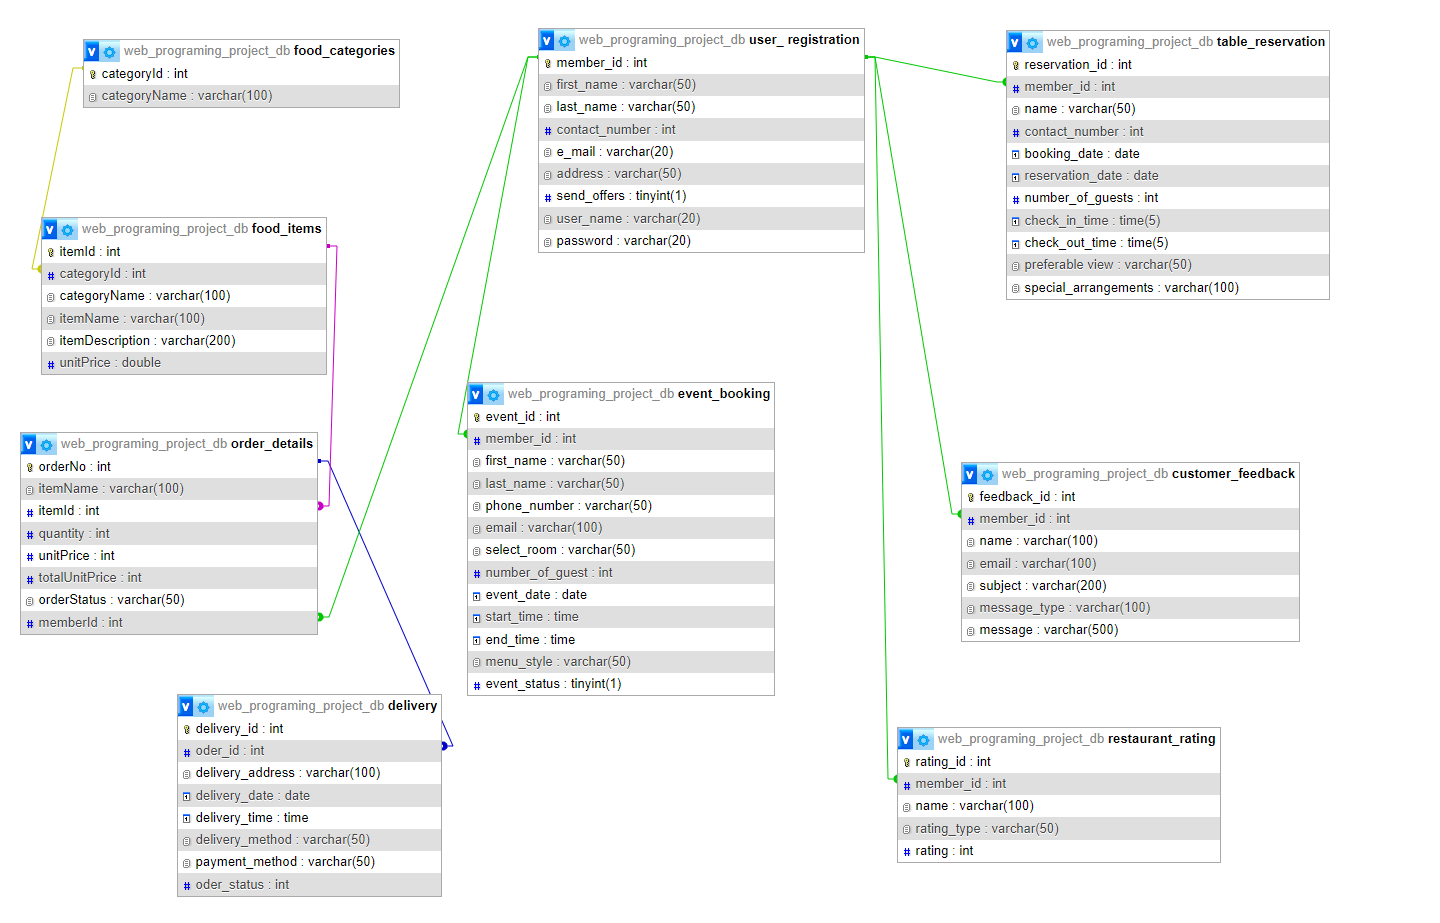
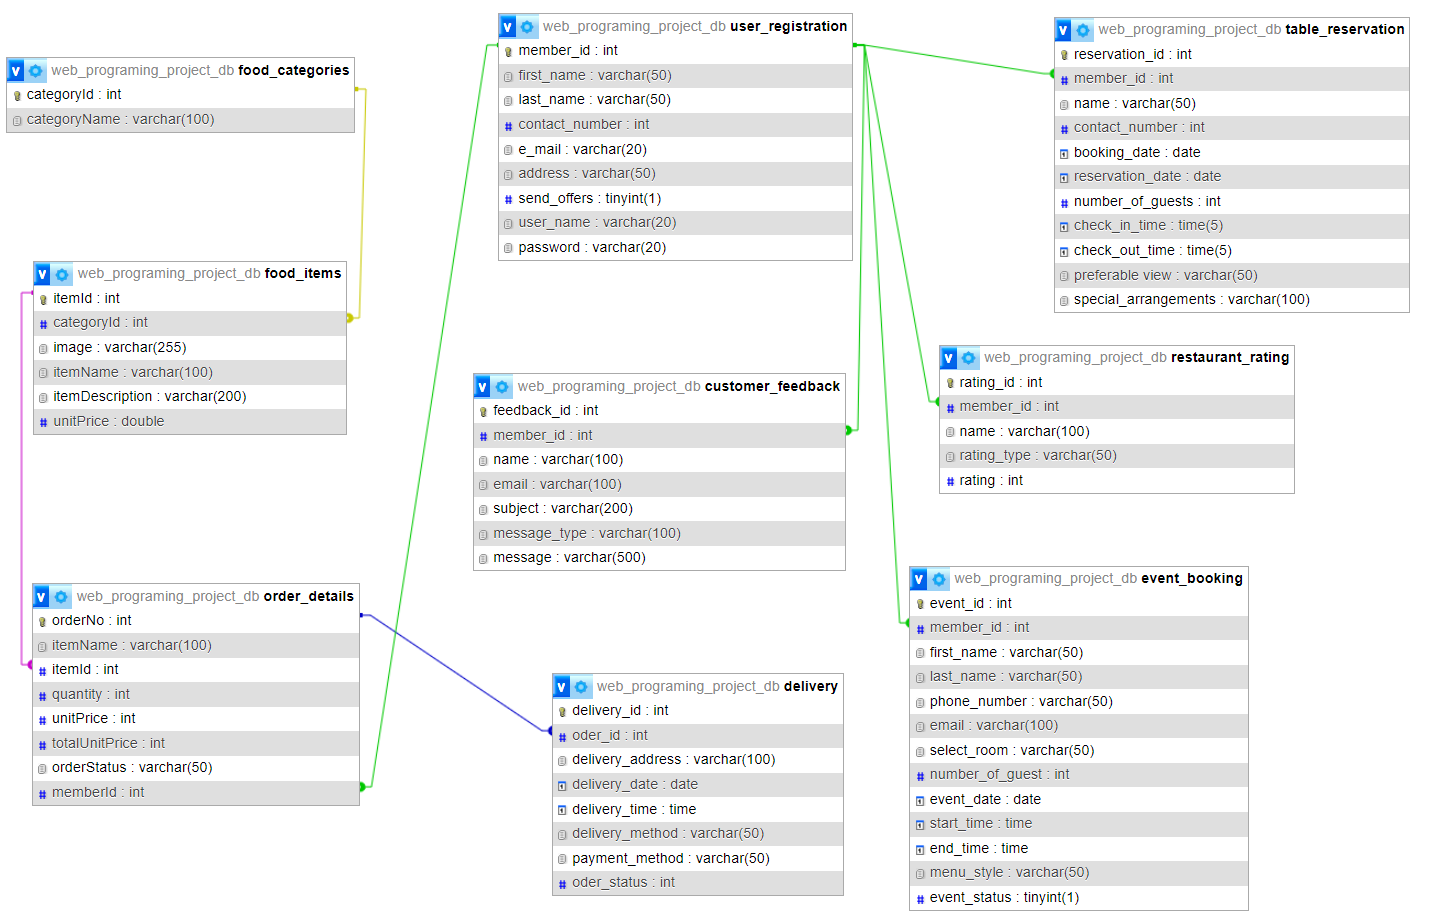
Updated readme.md file, added images of project, and updated the database.md file.

diff --git a/config/db.php b/config/db.php
@@ -1,7 +1,8 @@
 <?php
-    $serverName = "php24-db-1";
+    $serverName = "web-dev-env-main-db-1";
     $userName = "root";
     $password = "password";
+    $dbName = "web_programing_project_db";
 
 
     //create the connection with the Database

diff --git a/README.md b/README.md
@@ -15,54 +15,98 @@ This website is being built using couple of web development related client side 
 ## Features
 In this section, list and describe the features or functionality that you are working on. You can use checkboxes to track the progress of each feature.
 
- Feature 1 (Yashodha Amarasinghe): Managing food categories, food item details and order details with the admin panel and managing website dynamic Menu.<br>
- Feature 2 (Mayuri Yashodha): Handling member resistration and member details Update/Delete<br>
- Feature 3 (Udashi Jayaneththi): Handling services and booking events.<br>
- Feature 4 (Kapila Bandara): Handling customer feedbacks and ratings.<br>
- Feature 5 (Mayuri Yashodha): Handling Table reservation.<br>
- Feature 6 (Yashodha Amarasinghe):Online Order function including the shopping cart.<br>
- Feature 7 (Member name): Handling offer and services according to the user levels(member/non-member).<br>
- Feature 8 (Member name): Handling Login function with different user levels.<br>
+ Feature 1 (Yashodha Amarasinghe): Creating admin panel to Managing food categories and food item details.<br>
+ Feature 2 (Yashodha Amarasinghe): Retrive and manage orders from the adming panel.<br>
+ Feature 3 (Yashodha Amarasinghe): Handling restaurant menu items dynamicaly.<br>
+ Feature 4 (Mayuri Yashodha): Handling member resistration and member details Update/Delete.<br>
+ Feature 5 (Udashi Jayaneththi): Handling services and booking events.<br>
+ Feature 6 (Kapila Bandara): Handling customer feedbacks and ratings.<br>
+ Feature 7 (Mayuri Yashodha): Handling Table reservation.<br>
+ Feature 8 (Member Name): Online Order function including the shopping cart.<br>
+ Feature 9 (Member name): Handling offer and services according to the user levels(member/non-member).<br>
+ Feature 10 (Member name): Handling Login function with different user levels.<br>
  
 ### Feature 1
-Managing food categories, food item details and order details with the admin panel and managing website dynamic Menu.<br>
-In this feature, creating the admin panel where the admin user can enter food categories and food items to the DB. And providing facility for the admin to view DB data and update, delete whenever he/she wants. As well as admin can see all the available orders in the database and he/she can do the changes or can delete relant orders.
+#### 1. Creating admin panel to Managing food categories and food item details :
+In this feature created the admin panel with .htaccess and added forms to insert food categories and retriew existing food categories. And added form to insert food item details and then retriew the inserted item details and allowed the admin user to do the updation and deletion of the food items.<br>
+
+Github link(Admin Panel) : https://github.com/Yashodha8890/Web_Programming_Project/blob/main/admin/admin.php , shell.hamk.fi link: http://shell.hamk.fi/~yashodha23000/Web_Programming_Project/admin/admin.php <br>
+
+GitHub link(Add & retriew catergories and add food items) : https://github.com/Yashodha8890/Web_Programming_Project/blob/main/admin/add_categories_and_item.php , shell.hamk.fi link: http://shell.hamk.fi/~yashodha23000/Web_Programming_Project/admin/add_categories_and_item.php <br>
+
+GitHub link(Retriew food Items) : https://github.com/Yashodha8890/Web_Programming_Project/blob/main/admin/manage_food_items.php , shell.hamk.fi link: http://shell.hamk.fi/~yashodha23000/Web_Programming_Project/admin/manage_food_items.php<br>
+
+GitHub link(Manage(Update/Delete) food Items) : https://github.com/Yashodha8890/Web_Programming_Project/blob/main/admin/update_food_items.php , shell.hamk.fi link: http://shell.hamk.fi/~yashodha23000/Web_Programming_Project/admin/update_food_items.php?itemId=1 <br>
+
+Github link(.htaccess) : https://github.com/Yashodha8890/Web_Programming_Project/blob/main/admin/.htaccess <br>
+Github link(.htpasswd) : https://github.com/Yashodha8890/Web_Programming_Project/blob/main/admin/.htpasswd <br>
+ 
+ 
+### Feature 2
+
+#### 2. Retrive and manage orders from the adming panel :
+In this feature, added a table for retriewing order details from the database and display existing order details and from that table and has been provided the facility for the admin user to click on update or delete and the required details by navigating to a details page.<br>
+
+GitHub link(Retriew food orders) : https://github.com/Yashodha8890/Web_Programming_Project/blob/main/admin/food_orders.php , shell.hamk.fi link: http://shell.hamk.fi/~yashodha23000/Web_Programming_Project/admin/food_orders.php<br>
+
+GitHub link(Manage(Update/Delete) food orders) : https://github.com/Yashodha8890/Web_Programming_Project/blob/main/admin/manage_orders.php , shell.hamk.fi link: http://shell.hamk.fi/~yashodha23000/Web_Programming_Project/admin/manage_orders.php?orderNo=1<br>
+
 From the website users can view dynamic menu items where the data is retiewing from the database table which is insered by the admin.
 
-<br>Provide links to related code files (github) & link to the feature (shell.hamk.fi) .<br>
+### Feature 3
 
-### Feature 2
+#### 3. Handling restaurant menu items dynamicaly :
+With this feature website users can able to see the dynamic menu items in the restaurant menu. All the inserted menu items from the admin panel is being loaded in the Menu dynamically. If the admin user has updated any details of a food item or delete any, that will be indicated in the restaurant menu by retriewing data from the database.
+
+GitHub link(Retriew Menu Items - From Line number 165-208 ) : https://github.com/Yashodha8890/Web_Programming_Project/blob/main/index.php , shell.hamk.fi link: http://shell.hamk.fi/~yashodha23000/Web_Programming_Project/index.php#menu<br>
+
+### Feature 4
+
+#### 4. Handling member resistration and member details Update/Delete : 
 Handling member resistration & login with different user levels : <br>
 In the registration feature, the website will allow users to register with Asian delight restaurant. A member ID is created for each registered user. A registered member can do other functions after logged into the account. By doing this, it is easy to administrators to manage user accounts and previlages.
 <br> Provide links to related code files (github) & link to the feature (shell.hamk.fi) .
 
-### Feature 3
-Handling services and booking events : <br>
+### Feature 5
+#### 5. Handling services and booking events : <br>
 With the feature of services and event booking, website users can book their private events and access services through the website. When booking private events or accessing services, users are required to become members of the website first. If they are not members they will direct to registration form. <br>
 <br>Provide links to related code files (github) & link to the feature (shell.hamk.fi) .
 
-### Feature 4
-Handling customer feedbacks and ratings : <br>
+### Feature 6
+
+#### 6. Handling customer feedbacks and ratings : <br>
 In this feature, Collecting customer's Messages(Feedbacks),Complaints and reviews. If the user is not a registered member refer to the register form.The admin can view,update and delete customers feedback.<br>
 <br>Provide links to related code files (github) & link to the feature (shell.hamk.fi) .
 
-### Feature 5 <br>
-Handling Table reservation.<br>
+### Feature 7
+
+#### 7. Handling Table reservation :
 
 
-### Feature 6 <br>
-Handling Online Order function including the shopping cart :<br>
+### Feature 8
+
+#### 8. Online Order function including the shopping cart :
 With the Order Online feature, Asian Delight Restaurant users can order their food through the website. If the user is not a member, then he or she will be directing to Member Registration while members can log in to the website and add their items to the shopping cart. Once they are done with their selection they can do checkout and print the order as PDF. If the user wants to remove any added item from the cart he/she can remove them before performing the checkout. <br>
+Not completed.
+<br>Provide links to related code files (github) & link to the feature (shell.hamk.fi).<br>
 
+### Feature 9
 
+#### 9. Handling offer and services according to the user levels(member/non-member).<br>
+Provide links to related code files (github) & link to the feature (shell.hamk.fi).<br>
+
+### Feature 10
+
+#### 10. Handling Login function with different user levels.<br>
+Provide links to related code files (github) & link to the feature (shell.hamk.fi).<br>
 
 ## Database Tables
 List the database tables that are part of your project.
 
 Table 1 (Yashodha Amarasinghe): food_categories<br>
 Table 2 (Yashodha Amarasinghe): food_items<br>
-Table 3 (Yashodha Amarasinghe): oderDetails<br>
-Table 4 (Mayuri Yashodha): Registration_form<br>
+Table 3 (Yashodha Amarasinghe): oder_details<br>
+Table 4 (Mayuri Yashodha): user_registration<br>
 Table 5 (Mayuri Yashodha): table_reservation<br>
 Table 6 (udashi Jayaneththi): events_booking<br>
 Table 7 (udashi Jayaneththi): delivery<br>
@@ -75,22 +119,39 @@ Include the ER Diagram of the database.<br><br>
 ## Created Forms
 List and describe any forms that have been created as part of your project. Include details about the purpose of each form and any validation logic.
 
-Form 1 (Yashodha Amarasinghe): Add food Categories and items: Link to the related code file (github) | Link to the form (shell.hamk.fi). | Validations Applied<br>
-Form 2: (Yashodha Amarasinghe): Update Food items: Link to the related code file (github) | Link to the form (shell.hamk.fi). | Validations Applied<br>
-Form 3: (Created By): Form Name: Link to the related code file (github) | Link to the form (shell.hamk.fi). | Validations Applied<br>
+Form 1: (Yashodha Amarasinghe): Add food Categories and items: [Link to the related code file](https://github.com/Yashodha8890/Web_Programming_Project/blob/main/admin/add_categories_and_item.php) (github) | [Link to the form](http://localhost:81/Web_Programming_Project/admin/add_categories_and_item.php) (shell.hamk.fi). | Validations Applied<br>
+In this page there are two forms created, one form is used to insert food categories(Sri Lankan/Indian/Malaysian etc..) to the database food_categories table. while other form is used to insert food items to the database food_items table. Food items will be mapped with the food category. Cannot be inserted any item without selecting a food category. <br>
+Validations : .........<br>
+
+Form 2: (Yashodha Amarasinghe): Update Food items: [Link to the related code file](https://github.com/Yashodha8890/Web_Programming_Project/blob/main/admin/update_food_items.php) (github) | [Link to the form](http://shell.hamk.fi/~yashodha23000/Web_Programming_Project/admin/update_food_items.php?itemId=1) (shell.hamk.fi). | Validations Applied<br>
+Form 3: (Yashodha Amarasinghe): Update order details : [Link to the related code file](https://github.com/Yashodha8890/Web_Programming_Project/blob/main/admin/manage_orders.php) (github) | [Link to the form](http://shell.hamk.fi/~yashodha23000/Web_Programming_Project/admin/manage_orders.php?orderNo=1) (shell.hamk.fi). | Validations Applied<br>
+
+Form 4: (Created By): Form Name: Link to the related code file (github) | Link to the form (shell.hamk.fi). | Validations Applied<br>
 
 ## Created Tables
 List any tables that you have created in the project work<br>
 eg :<br>
 Table 1 (name): table_name | Link to the related code file (github) | Link to the table (shell.hamk.fi).<br><br>
 
-Table 1 (Yashodha Amarasinghe): food_categores <br><br>
-Table 2 (Yashodha Amarasinghe): food_items <br><br>
-Table 3 (Yashodha Amarasinghe): oderDetails <br><br>
-Table 4 (Mayuri Yashodha): Registration_form<br><br>
-Table 5 (Mayuri Yashodha): table_reservation<br><br>
-Table 6 (udashi Jayaneththi): events_booking<br><br>
-Table 7 (udashi Jayaneththi): delivery<br><br>
-Table 8 (Kapila Bandara): customer_feedback<br><br>
-Table 9 (Kapila Bandara): restaurant_rating<br><br>
+Table 1 (Yashodha Amarasinghe): food_categories [Link to the related code file](https://github.com/Yashodha8890/Web_Programming_Project/blob/main/admin/add_categories_and_item.php) (github) | [Link to the table](http://shell.hamk.fi/~yashodha23000/Web_Programming_Project/admin/add_categories_and_item.php) (shell.hamk.fi).<br><br>
+![Food_categories_table](images/food_categories_table.PNG) <br>
+<br>Database table : food_categories <br><br>
+![db_table_food_categories](images/tb_food_categories.PNG) <br>
+
+Table 2 (Yashodha Amarasinghe): food_items [Link to the related code file](https://github.com/Yashodha8890/Web_Programming_Project/blob/main/admin/manage_food_items.php) (github) | [Link to the table](http://shell.hamk.fi/~yashodha23000/Web_Programming_Project/admin/manage_food_items.php) (shell.hamk.fi).<br><br>
+![Food_items_table](images/food_items_table.PNG) <br>
+<br>Database table : food_items<br><br>
+![db_table_food_items](images/tb_food_items.PNG) <br>
+
+Table 3 (Yashodha Amarasinghe): oder_details [Link to the related code file](https://github.com/Yashodha8890/Web_Programming_Project/blob/main/admin/food_orders.php) (github) | [Link to the table](http://shell.hamk.fi/~yashodha23000/Web_Programming_Project/admin/food_orders.php) (shell.hamk.fi).<br><br>
+![Food_orders_table](images/food_orders_table.PNG) <br>
+<br>Database table : order_details<br><br>
+![db_table_order_details](images/tb_order_details.PNG) <br>
+
+Table 4 (Mayuri Yashodha): Registration_form Link to the related code file (github) | Link to the table (shell.hamk.fi).<br><br>
+Table 5 (Mayuri Yashodha): table_reservation Link to the related code file (github) | Link to the table (shell.hamk.fi).<br><br>
+Table 6 (udashi Jayaneththi): events_booking Link to the related code file (github) | Link to the table (shell.hamk.fi).<br><br>
+Table 7 (udashi Jayaneththi): delivery Link to the related code file (github) | Link to the table (shell.hamk.fi).<br><br>
+Table 8 (Kapila Bandara): customer_feedback Link to the related code file (github) | Link to the table (shell.hamk.fi).<br><br>
+Table 9 (Kapila Bandara): restaurant_rating Link to the related code file (github) | Link to the table (shell.hamk.fi).<br><br>
 

diff --git a/DATABASE.md b/DATABASE.md
@@ -17,7 +17,7 @@ ALTER TABLE `food_categories`
 CREATE TABLE `food_items` (
   `itemId` int NOT NULL,
   `categoryId` int NOT NULL,
-  `categoryName` varchar(100) NOT NULL,
+  `image` varchar(255) NOT NULL,
   `itemName` varchar(100) NOT NULL,
   `itemDescription` varchar(200) NOT NULL,
   `unitPrice` double NOT NULL
@@ -25,6 +25,9 @@ CREATE TABLE `food_items` (
 
 ALTER TABLE `food_items`
   ADD PRIMARY KEY (`itemId`);
+
+ALTER TABLE `food_items`
+  ADD CONSTRAINT `catergory_id` FOREIGN KEY (`categoryId`) REFERENCES `food_categories` (`categoryId`) ON DELETE CASCADE ON UPDATE CASCADE;
 
 -- Table structure for table `oderDetails`
 
